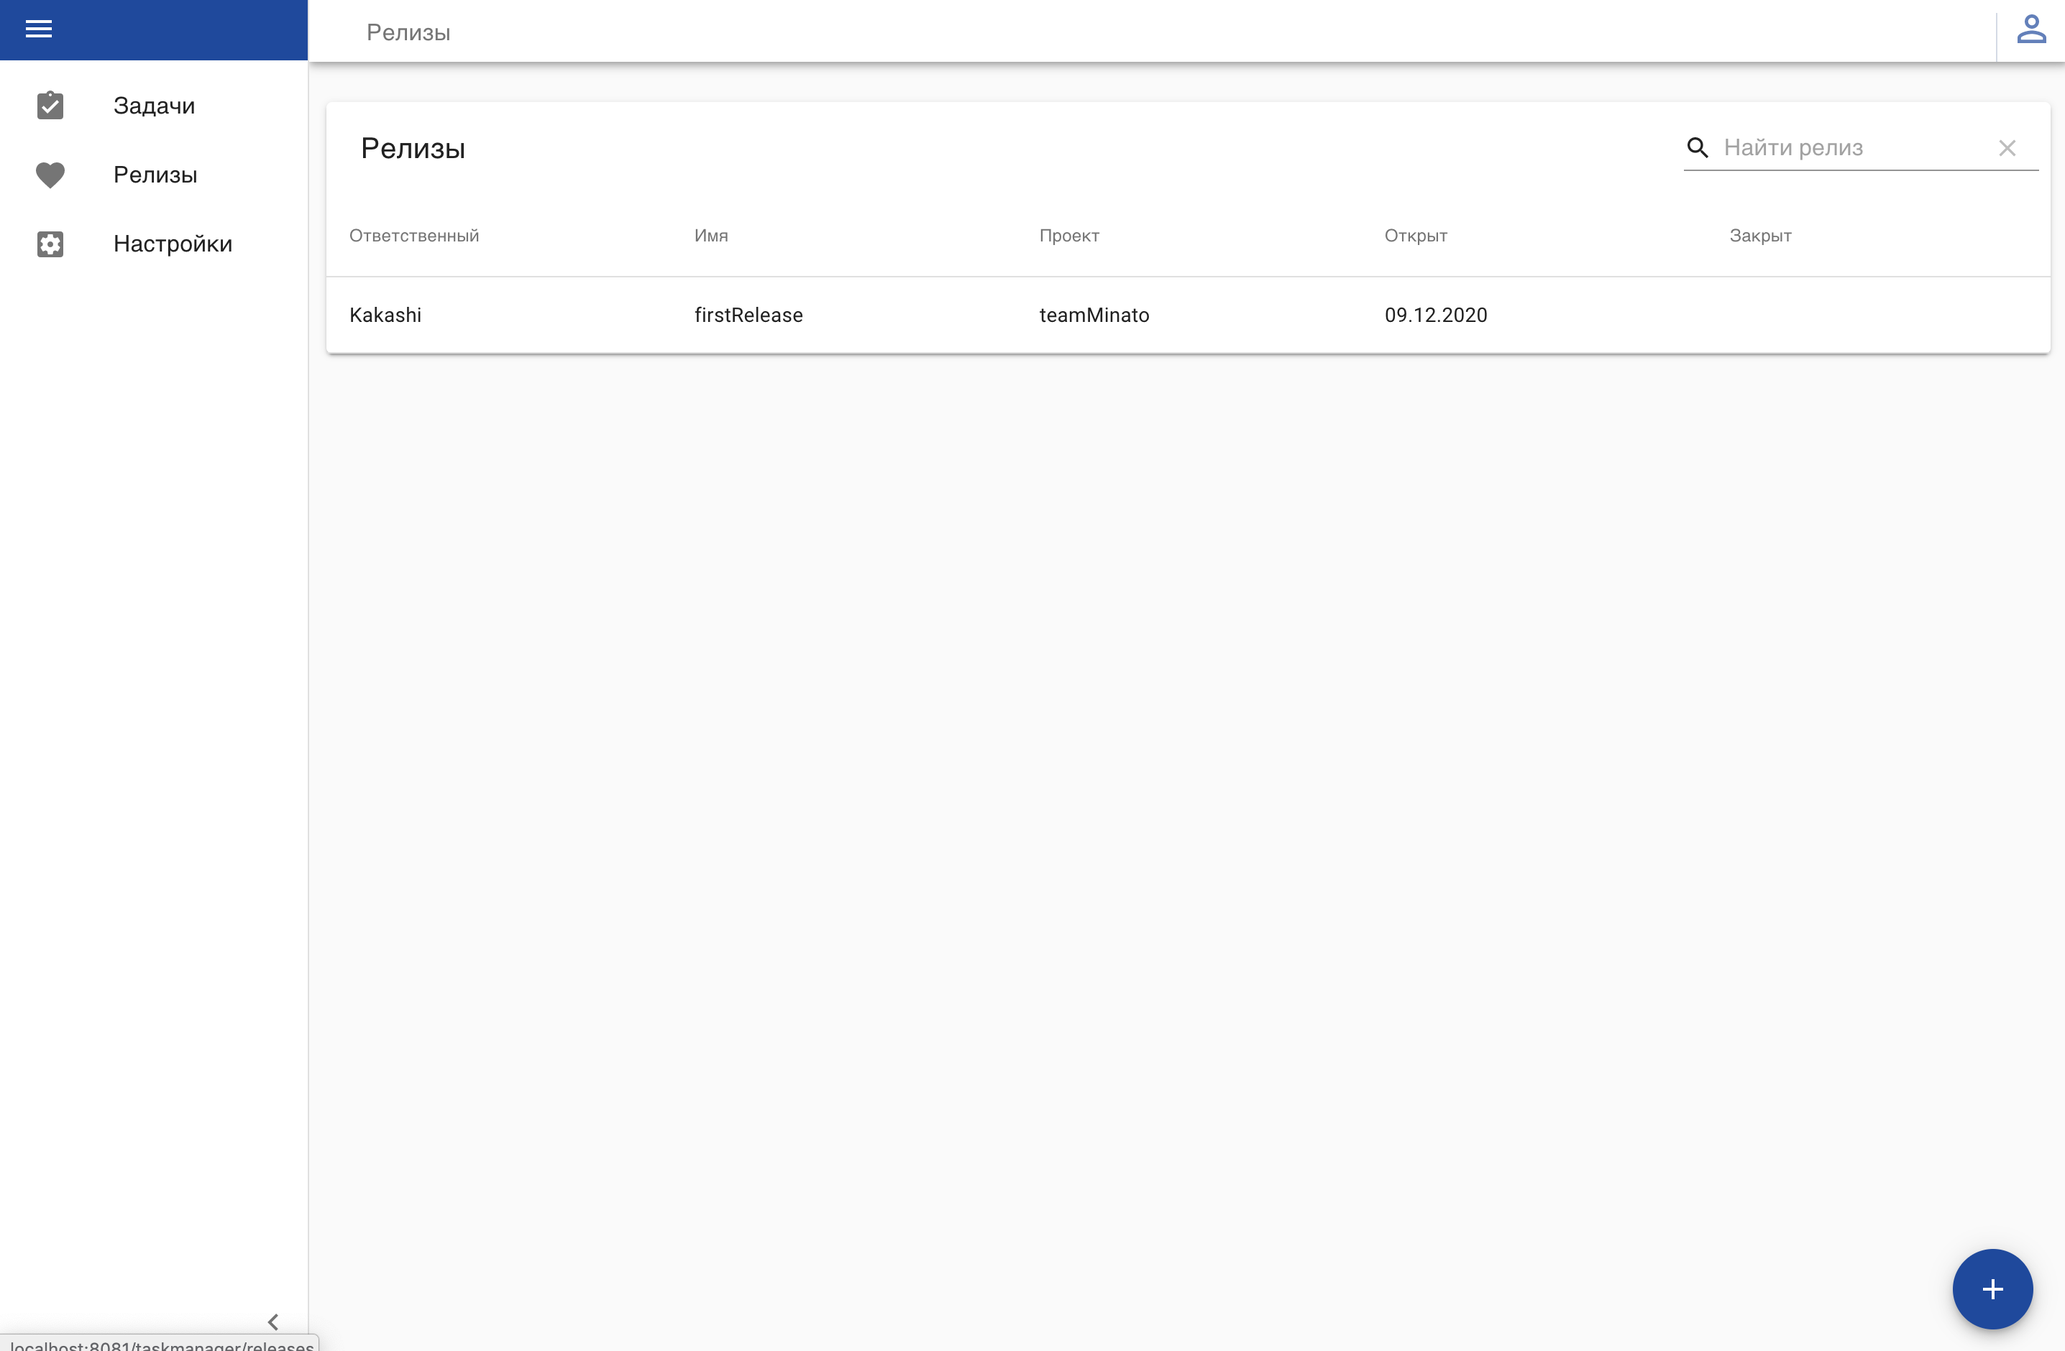
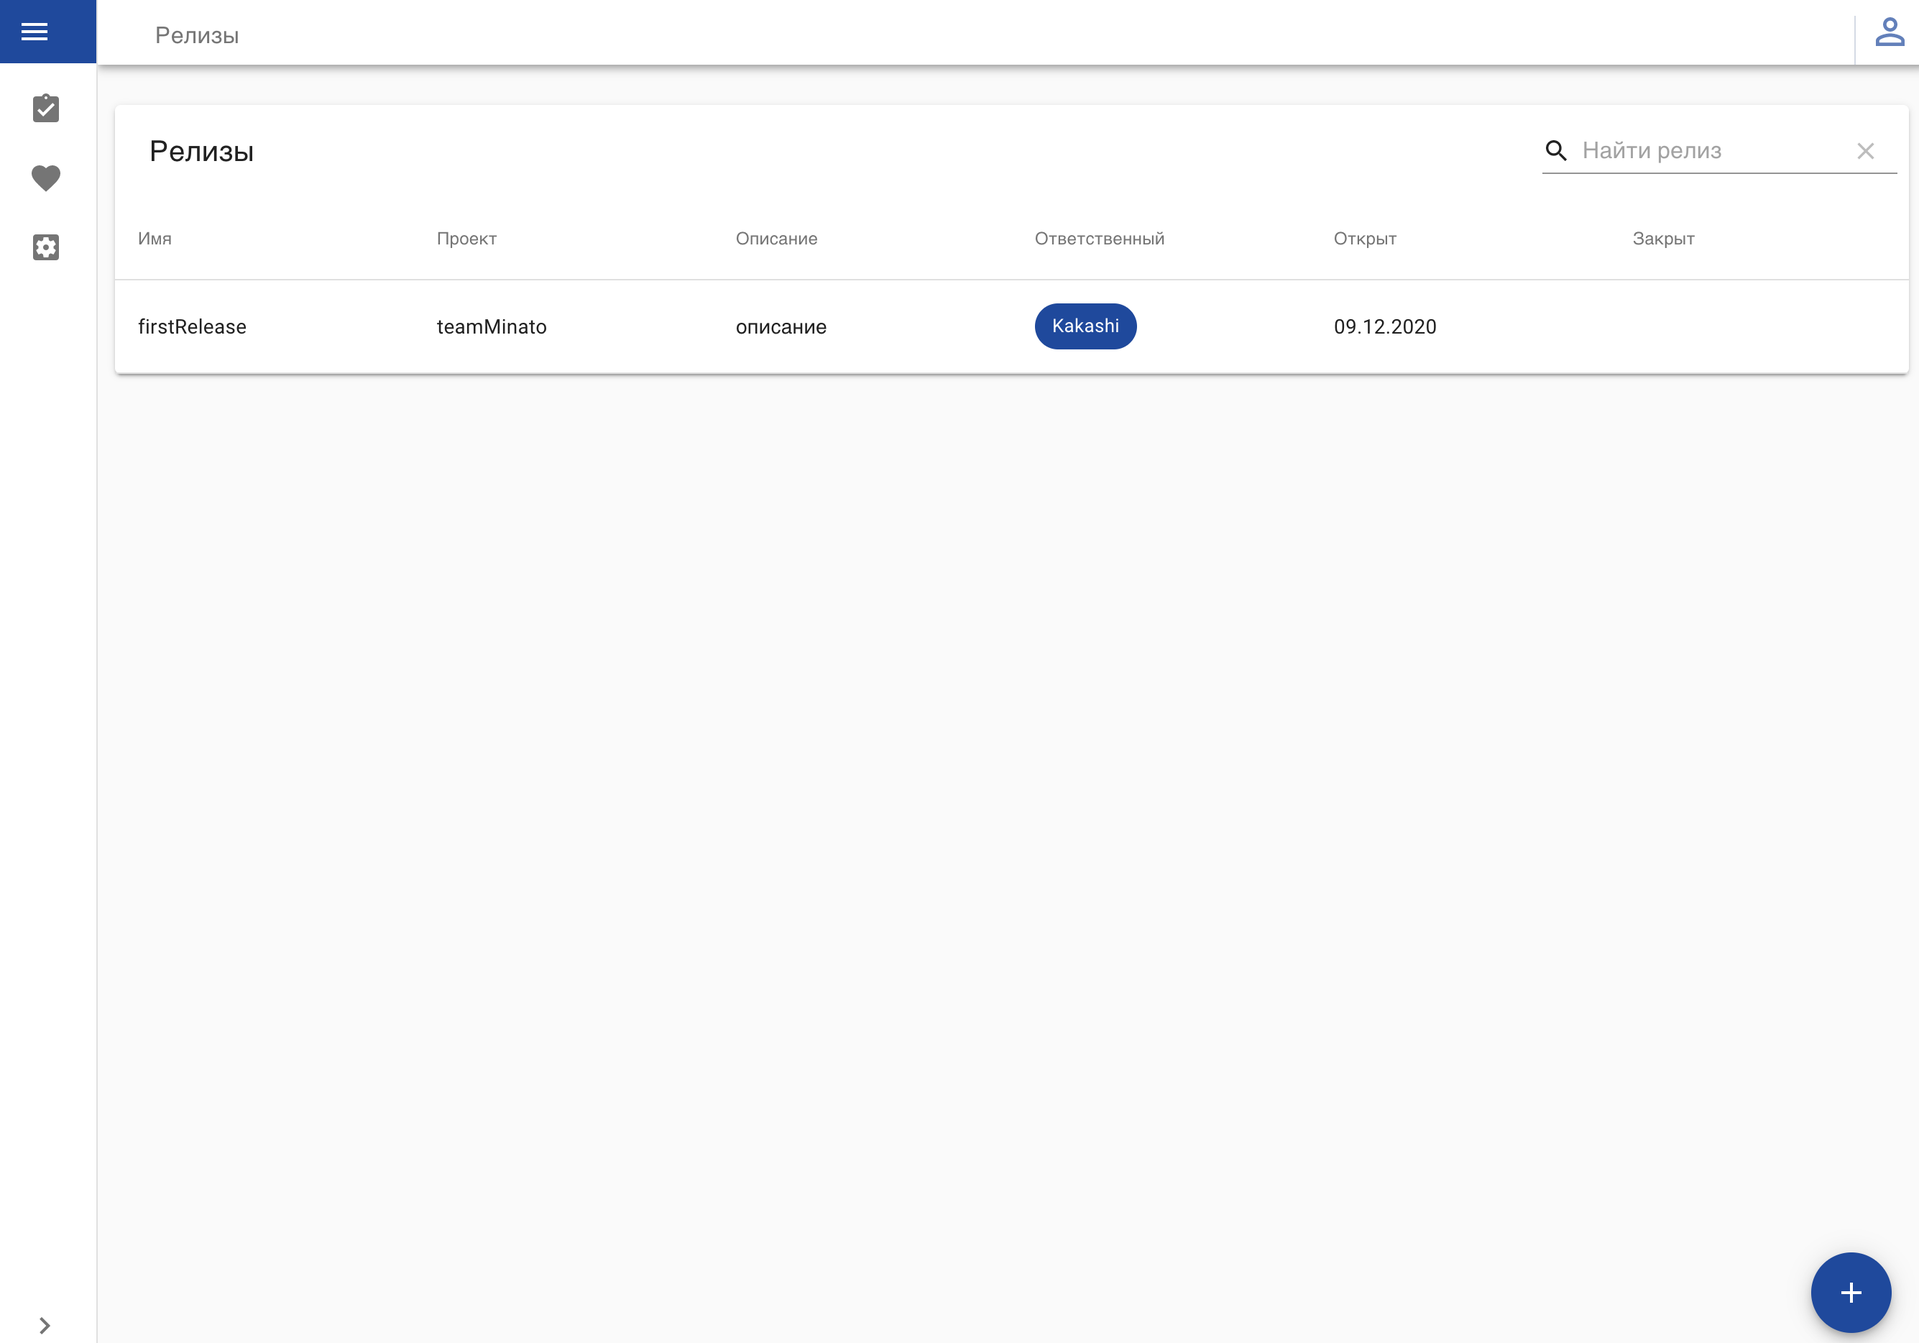
диалог создания релиза + макеты

diff --git a/ui/src/components/releases/AddReleaseDialog.tsx b/ui/src/components/releases/AddReleaseDialog.tsx
@@ -1,0 +1,234 @@
+import * as React from "react";
+import Draggable from "react-draggable";
+import {ResizableBox} from "react-resizable";
+import {
+    Button,
+    createStyles,
+    Dialog, DialogActions,
+    DialogContent,
+    DialogContentText,
+    DialogTitle, Grid, MenuItem,
+    Paper, Select, TextField,
+    withStyles
+} from "@material-ui/core";
+import {User} from "../../store/users/Types";
+import {Project} from "../../store/project/Types";
+import {ReleaseRequest} from "../../store/releases/Types";
+
+const styles = theme => createStyles({
+    resizable: {
+        position: "relative",
+        "& .react-resizable-handle": {
+            position: "absolute",
+            width: 20,
+            height: 20,
+            bottom: 0,
+            right: 0,
+            background:
[1 lines of base64/hex data omitted]
+            "background-position": "bottom right",
+            padding: "0 3px 3px 0",
+            "background-repeat": "no-repeat",
+            "background-origin": "content-box",
+            "box-sizing": "border-box",
+            cursor: "se-resize"
+        }
+    }
+});
+
+function PaperComponent(props) {
+    return (
+        <Draggable handle="#draggable-dialog-title" cancel={'[class*="MuiDialogContent-root"]'}>
+            <Paper {...props} />
+        </Draggable>
+    );
+}
+
+export interface AddReleaseDialogProps {
+    projects: Project[],
+    users: User[],
+    reporterLogin: string,
+
+    displayError(errorMessage: string): any,
+
+    onClose(value: string, releaseRequest?: ReleaseRequest): any,
+
+    close(value: boolean): any
+}
+
+export interface AddReleaseDialogState {
+    name: string,
+    description: string,
+    projectId: number,
+    reporterLogin: string,
+    reporter: User
+}
+
+class AddReleaseDialog extends React.Component<AddReleaseDialogProps, AddReleaseDialogState> {
+    constructor(props) {
+        super(props);
+        this.state = {
+            name: "",
+            description: "",
+            projectId: -1,
+            reporterLogin: this.props.reporterLogin,
+            reporter: this.props.users.filter((user) => {
+                return user.login === this.props.reporterLogin
+            })[0]
+        }
+    }
+
+    render(): React.ReactNode {
+        // @ts-ignore
+        const {classes} = this.props;
+        return (
+            <React.Fragment>
+                <Dialog
+                    open={true}
+                    onClose={(e) => this.props.close(false)}
+                    maxWidth={false}
+                    PaperComponent={PaperComponent}
+                    aria-labelledby="draggable-dialog-title"
+                >
+                    <ResizableBox
+                        width={800}
+                        className={classes.resizable}
+                    >
+                        <DialogTitle style={{cursor: 'move'}} id="draggable-dialog-title">
+                            Создание релиза.
+                        </DialogTitle>
+                        <DialogContent>
+                            <DialogContentText>
+                                <Grid container direction="column" justify="center" alignItems="center">
+                                    <Grid container direction="row" justify="flex-start" alignItems="center"
+                                          style={{margin: 4}}>
+                                        <Grid item xs={2}>
+                                            <b>Имя релиза:</b>
+                                        </Grid>
+                                        <Grid item xs={8} style={{marginLeft: "30px"}}>
+                                            <TextField
+                                                id="name"
+                                                error={this.state.name===""}
+                                                defaultValue={this.state.name}
+                                                onChange={(e) => {
+                                                    this.setState({name: e.target.value})
+                                                }}
+                                                type="login"
+                                                variant={"outlined"}
+                                                fullWidth
+                                            />
+                                        </Grid>
+                                    </Grid>
+                                    <Grid container direction="row" justify="flex-start" alignItems="center"
+                                          style={{margin: 4}}>
+                                        <Grid item xs={2}>
+                                            <b>Создатель*:</b>
+                                        </Grid>
+                                        <Grid item xs={8} style={{marginLeft: "30px"}}>
+                                            <Select
+                                                value={this.state.reporterLogin}
+                                                disabled
+                                                variant={"outlined"}
+                                                fullWidth
+                                                displayEmpty
+                                            >
+                                                {this.props.users?.map((user, ind) => {
+                                                    return <MenuItem value={user.login} id={user.id}> {user.login} </MenuItem>
+                                                })}
+                                            </Select>
+                                        </Grid>
+                                    </Grid>
+                                    <Grid container direction="row" justify="flex-start" alignItems="center"
+                                          style={{margin: 4}}>
+                                        <Grid item xs={2}>
+                                            <b>Проект*:</b>
+                                        </Grid>
+                                        <Grid item xs={8} style={{marginLeft: "30px"}}>
+                                            <Select
+                                                value={this.state.projectId}
+                                                onChange={(event, child)=> {
+                                                    this.setState({projectId: event.target.value});
+                                                }}
+                                                variant={"outlined"}
+                                                fullWidth
+                                                displayEmpty
+                                            >
+                                                {this.props.projects?.map((project, ind) => {
+                                                    return <MenuItem value={project.id}> {project.name} </MenuItem>
+                                                })}
+                                            </Select>
+                                        </Grid>
+                                    </Grid>
+                                    <Grid container direction="column" justify="flex-start" alignItems="flex-start"
+                                          style={{margin: 4}}>
+                                        <Grid item>
+                                            <b>Описание релиза:</b>
+                                        </Grid>
+                                        <Grid item style={{width: "95%", marginTop: 6}}>
+                                            <TextField
+                                                id="outlined-multiline-description"
+                                                multiline
+                                                rows={4}
+                                                fullWidth
+                                                error={this.state.description===""}
+                                                defaultValue={this.state.description}
+                                                onChange={(e) => {
+                                                    this.setState({description: e.target.value})
+                                                }}
+                                                variant="outlined"
+                                            />
+                                        </Grid>
+                                    </Grid>
+                                </Grid>
+                            </DialogContentText>
+                        </DialogContent>
+                        <DialogActions style={{marginTop: 6, marginRight: 6}}>
+                            <Button
+                                onClick={(e) => {
+                                    if (this.state.name === "" || this.state.name === undefined) {
+                                        this.props.displayError("Поле 'Название релиза' не может быть пустым.");
+                                        return;
+                                    }
+                                    if (this.state.description === "" || this.state.description === undefined) {
+                                        this.props.displayError("Поле 'Описание' не может быть пустым.");
+                                        return;
+                                    }
+                                    if (this.state.projectId === -1 || this.state.projectId === undefined) {
+                                        this.props.displayError("Поле 'Проект' не может быть пустым.");
+                                        return;
+                                    }
+                                    if (this.state.reporterLogin === "" || this.state.reporter === undefined) {
+                                        this.props.displayError("Выбор руководителя обязателен.");
+                                        return;
+                                    }
+                                    let releaseRequest: ReleaseRequest = {
+                                        name: this.state.name,
+                                        projectId: this.state.projectId,
+                                        description: this.state.description,
+                                        reporterId: this.state.reporter.id
+                                    };
+                                    this.props.onClose('Ok', releaseRequest);
+                                    this.props.close(false);
+                                }}
+                                color="primary"
+                                variant={"contained"}
+                            >
+                                Создать
+                            </Button>
+                            <Button onClick={(e) => {
+                                this.props.onClose('Cancel');
+                                this.props.close(false)
+                            }}
+                                    color="primary">
+                                Отменить
+                            </Button>
+                        </DialogActions>
+                    </ResizableBox>
+                </Dialog>
+            </React.Fragment>
+        )
+    }
+
+}
+
+export default withStyles(styles)(AddReleaseDialog);

diff --git a/ui/src/components/releases/ReleasesOverviewForm.tsx b/ui/src/components/releases/ReleasesOverviewForm.tsx
@@ -1,12 +1,13 @@
 import * as React from "react";
-import {User} from "../../store/users/Types";
-import {Project} from "../../store/project/Types";
+import {SystemRole, User} from "../../store/users/Types";
+import {Project, ProjectRequest} from "../../store/project/Types";
 import {Release, ReleaseRequest} from "../../store/releases/Types";
 import MaterialTable from "material-table";
-import {Fab} from "@material-ui/core";
+import {Chip, Fab} from "@material-ui/core";
 import AddBtn from "@material-ui/icons/Add";
 import {forwardRef} from "react";
 import {Add, ArrowDownward, Check, Clear, Delete, Edit, Remove, Search} from "@material-ui/icons";
+import AddReleaseDialog from "./AddReleaseDialog";
 
 
 const tableIcons = {
@@ -25,6 +26,8 @@ export interface ReleasesOverviewFormProps {
     users: User[],
     projects: Project[],
     releases: Release[],
+    currentUser: string,
+    role: SystemRole,
 
     displayError(msg: string): any,
 
@@ -46,14 +49,14 @@ export class ReleasesOverviewForm extends React.Component<ReleasesOverviewFormPr
             openAdd: false,
             columns: [
                 {title: 'id', field: 'id', hidden: true},
+                {title: 'Имя', field: 'name'},
+                {title: 'Проект', field: 'project', render: (rowData) => (rowData.project.name)},
+                {title: 'Описание', field: 'description'},
                 {
                     title: 'Ответственный',
                     field: 'reporter',
-                    render: (rowData) => (rowData.reporter.login)
+                    render: (rowData) => (<Chip label={rowData.reporter.login} color={"primary"}/>)
                 },
-                {title: 'Имя', field: 'name'},
-                {title: 'Проект', field: 'project', render: (rowData) => (rowData.project.name)},
-                {title: 'Описание', field: 'description', hidden: true},
                 {
                     title: 'Открыт', field: 'created', type: 'date'
                 },
@@ -106,6 +109,22 @@ export class ReleasesOverviewForm extends React.Component<ReleasesOverviewFormPr
                        console.log(rowData)
                     }}
                 />
+
+                {this.state.openAdd && <AddReleaseDialog
+                    projects={this.props.projects}
+                    users={this.props.users}
+                    reporterLogin={this.props.currentUser}
+                    displayError={this.props.displayError}
+                    close={(value)=> {this.setState({openAdd: value})}}
+                    onClose={(value, releaseRequest) => {
+                        if (value === 'Ok' && releaseRequest) {
+                            console.log(releaseRequest)
+                            this.props.createRelease(releaseRequest, () => {
+                                this.props.fetchReleases();
+                            });
+                        }
+                    }}
+                />}
 
                 <Fab
                     color="primary"

diff --git a/ui/src/containers/releases/ReleasesView.tsx b/ui/src/containers/releases/ReleasesView.tsx
@@ -1,5 +1,5 @@
 import * as React from "react";
-import {User} from "../../store/users/Types";
+import {SystemRole, User} from "../../store/users/Types";
 import {Project} from "../../store/project/Types";
 import * as userSelectors from "../../store/users/Reducer";
 import * as projectSelectors from "../../store/project/Reducer";
@@ -8,6 +8,7 @@ import * as projectActions from "../../store/project/Actions";
 import * as notificationActions from "../../store/notification/Actions";
 import * as releasesActions from "../../store/releases/Actions";
 import * as releasesSelectors from "../../store/releases/Reducer";
+import * as authSelectors from "../../store/auth/Reducer";
 import {connect} from "react-redux";
 import {Release, ReleaseRequest} from "../../store/releases/Types";
 import {ReleasesOverviewForm} from "../../components/releases/ReleasesOverviewForm";
@@ -29,6 +30,8 @@ export interface ReleasesViewStateProps {
     users: User[],
     projects: Project[],
     releases: Release[],
+    role: SystemRole,
+    currentUser: string,
 
     isLoading: boolean
 }
@@ -53,6 +56,8 @@ class ReleasesView extends React.Component<ReleasesViewProps & ReleasesViewDispa
         return (
             <React.Fragment>
                 <ReleasesOverviewForm
+                    currentUser={this.props.currentUser}
+                    role={this.props.role}
                     users={this.props.users}
                     projects={this.props.projects}
                     releases={this.props.releases}
@@ -71,7 +76,9 @@ function mapStateToProps(state): ReleasesViewStateProps {
         users: userSelectors.getAllUsers(state),
         projects: projectSelectors.getAllProjects(state),
         releases: releasesSelectors.getReleases(state),
-        isLoading: userSelectors.usersIsFetching(state) || projectSelectors.projectsIsFetching(state)
+        isLoading: userSelectors.usersIsFetching(state) || projectSelectors.projectsIsFetching(state),
+        role: authSelectors.getRole(state),
+        currentUser: authSelectors.username(state)
     }
 }
 

diff --git a/ui/src/store/tasks/Types.tsx b/ui/src/store/tasks/Types.tsx
@@ -1,0 +1,36 @@
+import {User} from "../users/Types";
+import {UserProject} from "../project/Types";
+
+export interface Task {
+    taskId: string,
+    title: string,
+    description: string,
+    type: TaskType,
+    status: TaskStatus,
+    reporter: User,
+    assignee: User,
+    comments?: Comment[],
+    linkedTask?: Task[],
+    created: number
+}
+
+export enum TaskType {
+    EPIC = 'EPIC',
+    STORY = 'STORY',
+    BUG = 'BUG',
+    TASK = 'TASK'
+}
+
+export enum TaskStatus {
+    CREATED = 'CREATED',
+    IN_PROGRESS = 'IN_PROGRESS',
+    READY = 'READY',
+    DONE = 'DONE',
+    ON_TESTING = 'ON_TESTING'
+}
+
+export interface Comment {
+    id: string,
+    text: string,
+    writer: UserProject
+}
